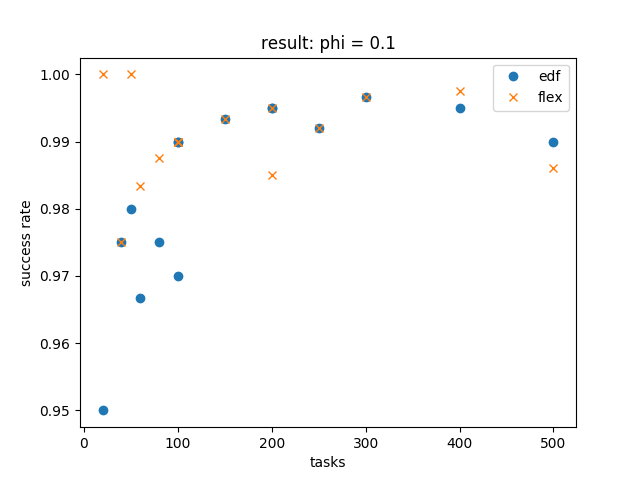
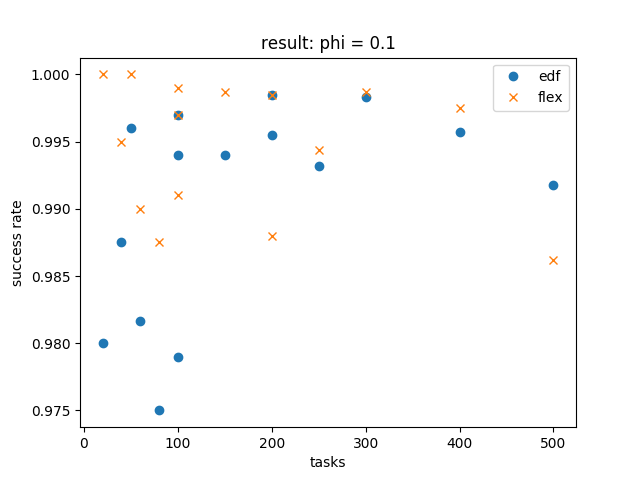
fix plot floating number bug

diff --git a/experiment/analysis.py b/experiment/analysis.py
@@ -39,8 +39,8 @@ def plot(phi, data):
     filename = os.path.join(experiment_dir, name + '-' + phi.replace('-', 'n') + ".png")
     data.sort(key=lambda x: int(x[0]))
     task = list(map(lambda x: int(x[0]), data))
-    edf = list(map(lambda x: int(x[1]) / int(x[0]), data))
-    flex = list(map(lambda x: int(x[2]) / int(x[0]), data))
+    edf = list(map(lambda x: float(x[1]) / int(x[0]), data))
+    flex = list(map(lambda x: float(x[2]) / int(x[0]), data))
     plt.figure()
     plt.plot(task, edf, label="edf", marker="o", linestyle="")
     plt.plot(task, flex, label="flex", marker="x", linestyle="")
